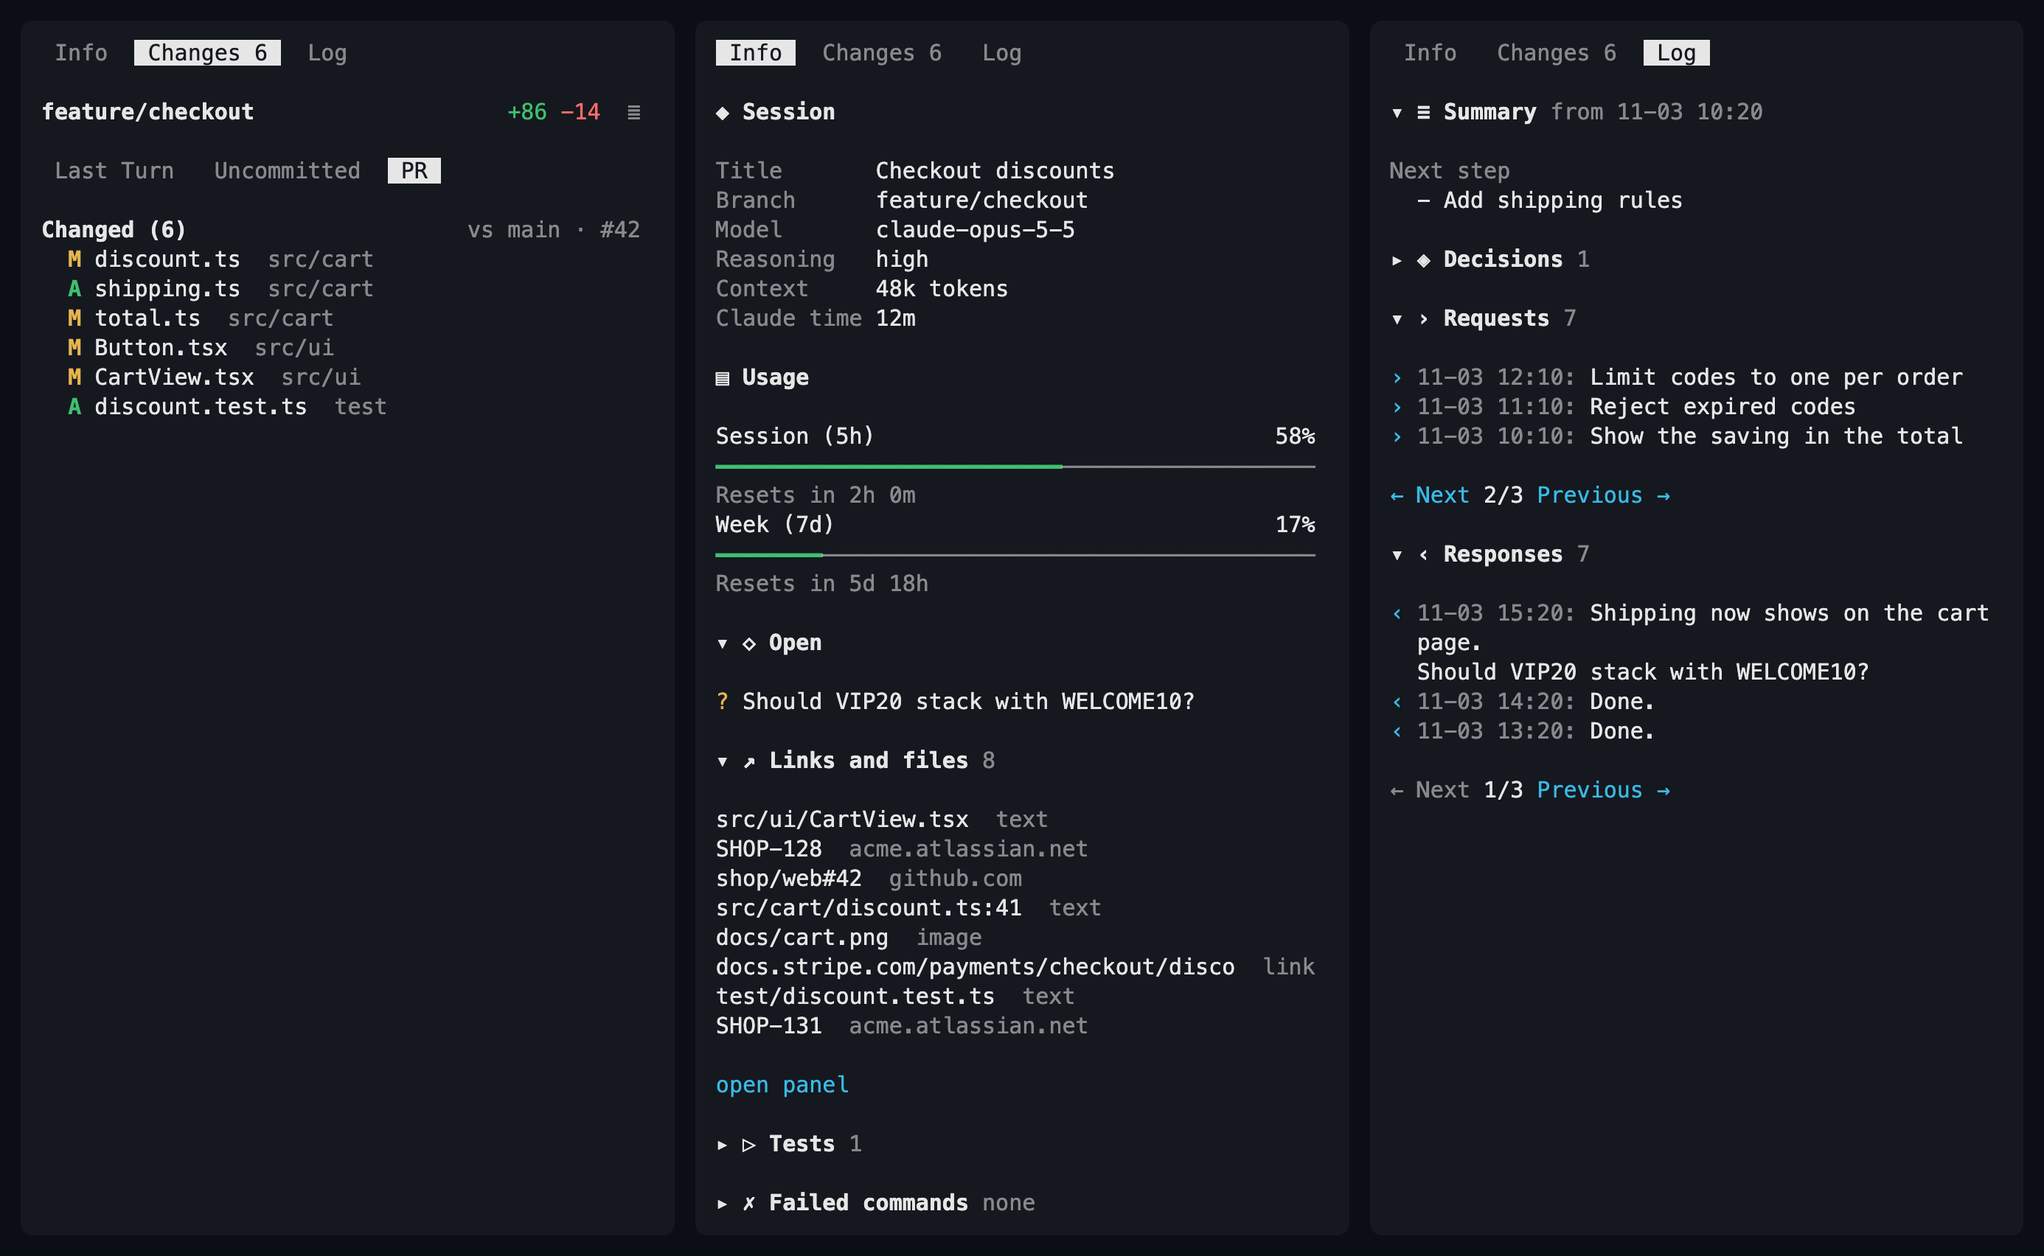
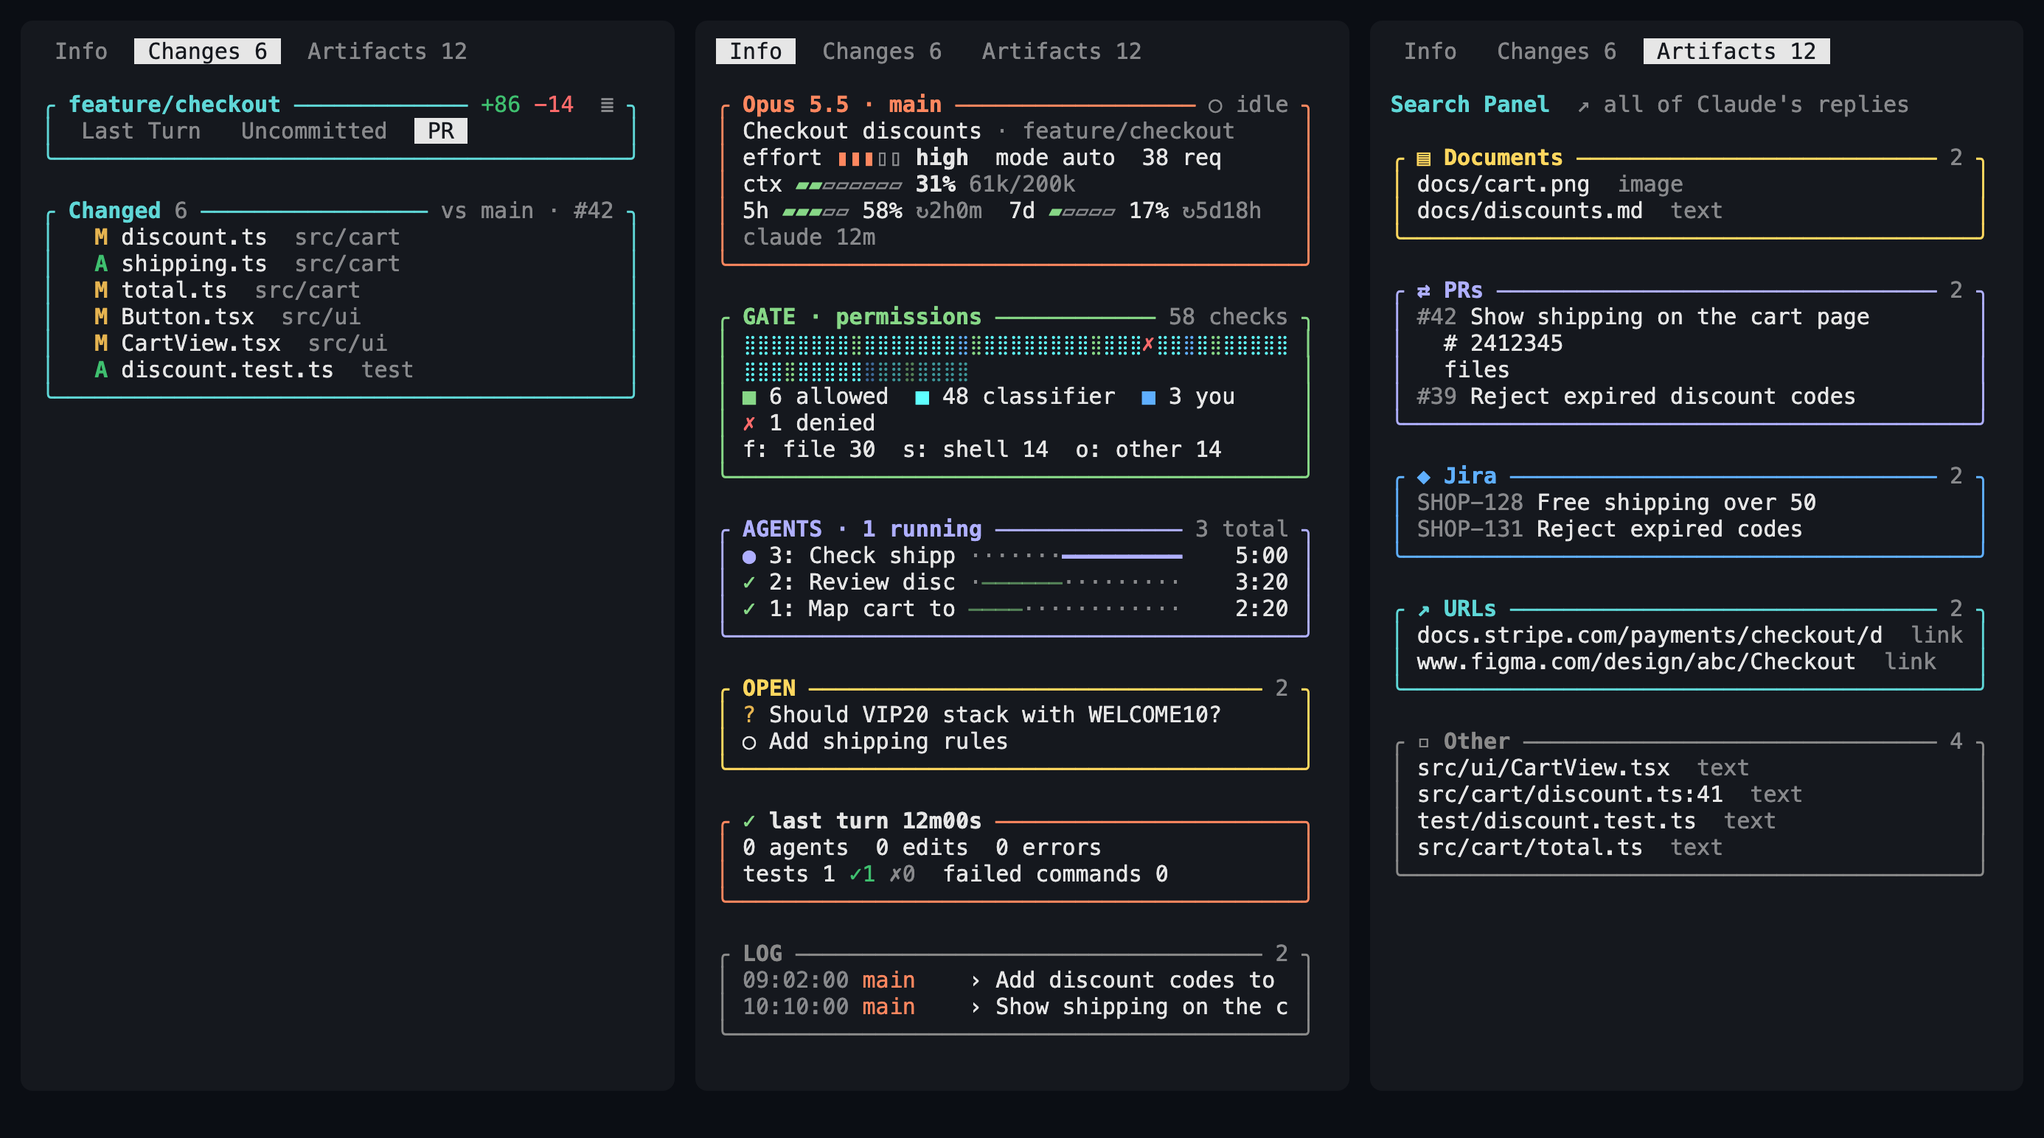
docs: describe the dashboard, Artifacts and Search Panel, with new pictures

diff --git a/cc-sidecar/README.md b/cc-sidecar/README.md
@@ -5,14 +5,17 @@ Code, and closes it when Claude exits or its pane closes. It stands in for
 Claude Code's own diff panel; turn that one off with `"diffSidebarOpen": false`
 in `~/.claude.json`.
 
-![The Changes tab on a pull request, Info with links and files from Claude's replies, and Log, with made-up data](../docs/cc-sidecar.png)
+![The Changes tab on a pull request, Info, and Artifacts with documents, PRs, Jira issues and links from Claude's replies, with made-up data](../docs/cc-sidecar.png)
 
-The pane has three tabs, redrawn every 2 seconds.
+The pane has three tabs, redrawn every 2 seconds, and every second while a
+clock runs. Their look follows [Flightdeck](https://github.com/scasella/claude-flightdeck),
+a Claude Code mod: each section is a box in its own colour, gauges are cells, and
+an empty section takes no room. Below 36 columns, boxes become plain headings.
 
 ## Changes
 
-The top row shows the branch, its added and removed lines, and `≣`, which
-switches between a list and a folder tree. Below it are up to three scopes:
+The header box shows the branch, its added and removed lines, and `≣`, which
+switches between a list and a folder tree. Inside it are up to three scopes:
 
 | Scope | What it lists | Where it comes from |
 | --- | --- | --- |
@@ -41,49 +44,83 @@ holds. The choice is saved in `settings.json`, for each repository.
 Last Turn only knows Claude's Edit and Write tools, so files changed through
 Bash (`sed`, a formatter) don't show up there. Outside a git repository it's the
 only scope. The transcript format is Claude Code's own and undocumented, so an
-update to it can empty this scope and the Info and Log tabs.
+update to it can empty this scope and the Info and Artifacts tabs.
 
 ## Info
 
-Opens first. Open, Links and files, Tests and Failed commands fold; see
-[Folding](#folding).
+Opens first. Every box folds; see [Folding](#folding).
+
+| Box | What's in it |
+| --- | --- |
+| **Model · main** | Running or idle; the session's title and branch; reasoning effort, permission mode and how many requests Claude made; context against the model's window, and ⟲ with how often it was compacted; your 5-hour and 7-day limits with the time to each reset (↻), and Claude's working time |
+| **ADVISOR** | The advisor tool's consults on a timeline from your first prompt, how long ago the last one was and how long it took. Shown only once Claude consults it |
+| **GATE** | A dotted cell (`⣿`) for each latest permission check: green allowed by a rule or the mode, cyan by the auto-mode classifier, blue by you, red ✗ denied, dim made inside a subagent. Then the totals, and the checks by family: click `file`, `shell` or `other`, or press `f`, `s` or `o`, to list that family's last 5 checks |
+| **AGENTS** | The latest 8 subagents as lanes on one time axis, newest first, each with its time. A running one has a pulsing lavender ● and a ticking clock. Click a lane for its type, context, steps, last 3 tool calls and the start of its answer |
+| **OPEN** | Questions and plans waiting for your answer, questions at the end of Claude's last reply, and unfinished tasks |
+| **Receipt** | The running turn, or the last one: how long, the agents it started, and its edits and errors. Then tests and failed commands: click either for the latest 8. A run counts as a test by its command: `pytest`, `npm test`, `go test`, a script named test or spec |
+| **LOG** | Your prompts, agents starting and finishing, edits, failed commands, denied permission checks and advisor consults, each with its time. It fills the rows under the other boxes, or, when they fill the screen, a screen of its own below them |
+
+The context window and the limits come from the status line step in the
+[main README](../README.md#install); without them they're left out. Commands and
+paths in GATE, the lanes, the receipt and the log have values that look like
+credentials masked as `•••`: the value of a `TOKEN=`, `--password` or
+`Authorization:`, a bearer token, and long key-like strings.
+
+## Artifacts
+
+What all of Claude's replies in this session mention, newest first. A reply is
+Claude's final message after one of your prompts; what it wrote between tool
+calls doesn't count. **Search Panel**, pinned at the top, opens the
+[Search Panel](#search-panel). The tab's title shows how many rows there are, counting a PR once.
 
 | Section | What's in it |
 | --- | --- |
-| **Session** | Title, branch, model, reasoning level, context size, how often it was compacted, and Claude's working time |
-| **Usage** | Your 5-hour and 7-day limits and when they reset. Needs the status line step in the [main README](../README.md#install); hidden without it |
-| **Open** | Questions and plans waiting for your answer, questions at the end of Claude's last reply, and unfinished tasks |
-| **Links and files** | The files, images and links in Claude's last 3 final messages, as [Rex View](#rex-view) lists them. Click one to view it or open it in the browser, as Enter does there; **open panel** at the end opens Rex View's float |
-| **Tests** | The latest test runs and whether they passed. A run counts as a test by its command: `pytest`, `npm test`, `go test`, a script named test or spec |
-| **Failed commands** | The latest failures, with their first error line |
+| **Documents** | Files that exist with `md`, `txt`, `pdf`, `html`, `csv`, `rtf`, `doc`, `docx`, `xlsx`, `pptx` or `svg`, and images |
+| **PRs** | Links to a GitHub pull request (`/pull/12`) or a GitLab merge request (`/merge_requests/12`) |
+| **Jira** | Links to a Jira issue (`/browse/KEY-12`) |
+| **URLs** | Other `http` and `https` links |
+| **Other** | Other files that exist, such as source code, with an optional `:line` |
 
-## Log
+[Link patterns](#link-patterns) turn text such as `SHOP-12` or `#12` into PRs
+and Jira links. A category with nothing in it isn't shown, and each one folds.
+Click a row to open it as Enter does in the Search Panel: a file or image in the
+viewer, in a float, and a link in your browser. Something mentioned again is
+listed once, where it was mentioned last. At most 1,000 rows are listed.
 
-What was said and decided. Summary has its local date and time in its title.
-The other three sections start each entry with theirs, run newest first and show
-3 entries a page. All four fold.
+PRs are listed one row a PR, named by its number, in grey, and its title. A PR mentioned through more
+than one link, such as its page, a comment and its files, has those links under
+it: a comment as `# 123`, and other links by their last part, such as `files` or
+`commit abc1234`. Click the PR to open it, or a link under it to open that.
+Titles come from GitHub through [gh](https://cli.github.com), up to 4 at a time
+while the tab is open, and each is looked up once; without `gh`, or for a GitLab
+merge request, a PR shows its repository and number. The Search Panel lists each
+link, such as `acme/shop#42 # 123`, without titles.
 
-| Section | What's in it |
-| --- | --- |
-| **Summary** | The current state, next step and pending work from the latest compaction |
-| **Decisions** | Your answers, with any notes; plans you approved or rejected; actions you rejected, with what you said |
-| **Requests** | Your prompts, including slash commands and messages sent while Claude worked. Up to 6 rows each |
-| **Responses** | Claude's final text in each turn, which changes while the turn runs. Up to 8 rows each, read from the first 2,000 characters |
+Jira issues show their key, in grey, and their title, as a reply wrote it next
+to the key: a Markdown link's text, words in brackets after it (`SHOP-12 (Cart
+rounding)`), after a colon or dash, or in the next table cell. A later mention
+without one keeps an earlier title. Nothing is looked up, so an issue no reply
+named shows its key and site.
 
-A section with more than one page ends with `← Next 2/10 Previous →`. Previous
-goes to earlier entries and Next to later ones. Click them, or highlight the
-section and press `]` or `[`. The page isn't saved.
+git and gh run in the background, so the pane keeps taking keys and clicks while
+they do. A scope you switch to shows "Loading…" until git is done, and a PR's
+title appears when gh returns it.
 
-## Rex View
+Each reply is read once, as it comes in. All of them are read again when Claude
+changes directory or you change the link patterns.
 
-Press `Cmd+Ctrl+Alt+Shift+O`, or run **Rex View: Open from Claude's Replies**
-from the palette, to list what Claude's last 10 replies mention, newest first. A reply is
-Claude's final message after one of your prompts, as in the Log tab's
-Responses; what it wrote between tool calls doesn't count. It
-reads the focused pane's Claude, or else the first Claude in the tab, and opens
-over the tab in a float:
+## Search Panel
 
-![Rex View's float with files, Jira keys, a pull request and a link, with made-up data](../docs/rex-view.png)
+Press `Cmd+Ctrl+Alt+Shift+O`, run **Rex View: Search Panel** from the palette,
+or click **Search Panel** on the Artifacts tab, to list what all of Claude's
+replies mention, as on the [Artifacts](#artifacts) tab: by category, newest
+first, with each category's icon and colour, and its name after each row. The
+float is styled as the sidecar's boxes: a teal frame labelled with the count,
+the keys at the top, an orange pointer and gold matches. The key reads the focused pane's
+Claude, or else the first Claude in the tab. The list opens over the tab in a
+float:
+
+![The Search Panel's float with files, Jira keys, a pull request and a link, with made-up data](../docs/rex-view.png)
 
 | Row | Enter | `Ctrl+E` |
 | --- | --- | --- |
@@ -133,7 +170,7 @@ basis that the match is added to:
 }
 ```
 
-For a Claude in a directory, Rex View takes that directory's patterns, then its
+For a Claude in a directory, cc-sidecar takes that directory's patterns, then its
 parent's, and so on up to `/`, and uses them all. When two set the same
 pattern, the nearer one wins. With the example, `PROJ-12` opens
 `https://acme-mobile.atlassian.net/browse/PROJ-12` under `acme/mobile`, and
@@ -153,44 +190,38 @@ not `repo#12`. A reply is matched with a line break before and after it, so
 `%W` matches at its start and end too. The `#` rule in the example is locked to
 `acme`, where a bare `#12` means that repository's pull request.
 
-### Replies read
-
-Rex View's float reads the last 10 replies, and the Info tab's Links and files
-section the last 3. To change them, set `"view_replies"` and `"info_replies"`
-in `settings.json`, such as `{"view_replies": 20, "info_replies": 5}`. The float
-reads only the last 16 MB of the transcript, and the section the last 10
-replies.
-
-## Where Info and Log get their data
+## Where Info and Artifacts get their data
 
 Both tabs read Claude Code's own files and need no Claude Code setting, hook or
 prompt: Claude's session file (`~/.claude/sessions/<pid>.json`, or under
 `$CLAUDE_CONFIG_DIR`) names its transcript
 (`projects/<project>/<session>.jsonl`), which is read from where the last read
-stopped. Nothing is sent anywhere, and no AI is involved, so only what Claude
+stopped. Subagents are read from the `subagents` folder beside it, and the
+status line's saved input from `state/statusline/<session>.json`. Nothing is sent anywhere, and no AI is involved, so only what Claude
 Code records as structured data shows: a decision made in plain conversation
 doesn't.
 
 ## Folding
 
-Click a section's heading to fold or unfold it, or highlight it with `n` and `p`
-and press `Enter`. The choice is saved as `{"folded": {"Tests": true}}` in
+Click a box's top line to fold or unfold it, or highlight it with `n` and `p`
+and press `Enter`; a folded box is one line. The choice is saved as `{"folded": {"Gate": true}}` in
 `settings.json`, and applies to all sidecar panes within a couple of seconds.
 
 ## Keys and mouse
 
-Click a tab, a scope, `≣`, a file, a section heading or a pager's side. Keys need
+Click a tab, a scope, `≣`, a file, a box's top line, a gate family, an agent
+lane, tests or failed commands, an Artifacts row or Search Panel. Keys need
 the pane focused:
 
 | Key | What it does |
 | --- | --- |
 | `1` `2` `3`, `Tab`, `←` `→` | Switch tabs |
-| `s` | Next scope |
+| `s` | Next scope on Changes |
+| `f` `s` `o` | On Info, list the last file, shell or other permission checks |
 | `t` | List or tree; the choice is saved in `settings.json` |
-| `j` `k`, `↑` `↓` | Move the selection on Changes, through folders too in the tree; scroll on Info and Log |
-| `n` `p` | Highlight the next or previous section on Info and Log |
-| `[` `]` | Next and Previous page of the highlighted section on Log |
-| `Enter` | On Changes, open the selected file's diff, or the first file's, or fold the selected folder. On Info and Log, fold the highlighted section |
+| `j` `k`, `↑` `↓` | Move the selection on Changes, through folders too in the tree; scroll on Info and Artifacts |
+| `n` `p` | Highlight the next or previous section on Info and Artifacts |
+| `Enter` | On Changes, open the selected file's diff, or the first file's, or fold the selected folder. On Info and Artifacts, fold the highlighted section |
 | `Space` `b`, `Page Down` `Page Up` | Scroll a page |
 | `g` | Back to the top |
 
@@ -222,7 +253,7 @@ pkill -f 'cc-sidecar/watcher\.lua'; rex config reload
 |---|---|
 | Show Sidecar Pane | Opens the pane beside the focused Claude, or another Claude in the tab that has none |
 | Disable / Enable Sidecar Pane Auto-Show | Whether a pane opens by itself when Claude starts. On by default |
-| Rex View: Open from Claude's Replies | The [Rex View](#rex-view) list; also `Cmd+Ctrl+Alt+Shift+O` |
+| Rex View: Search Panel | The [Search Panel](#search-panel); also `Cmd+Ctrl+Alt+Shift+O` |
 | Rex View: Set Editor | The command that [edits files](#editor) |
 | Rex View: Edit Link Patterns | Adds, edits and deletes [link patterns](#link-patterns) |
 
@@ -238,7 +269,7 @@ actions are `cc_sidecar_view`, `cc_sidecar_view_editor` and
 - Claude is recognised by its program name, `claude`, in the foreground or as
   the parent of the foreground command. A pane started as `rex split -- claude`
   is found by a second look a second after its shell starts.
-- The pane takes 20% of the width, and focus stays on the Claude pane.
+- The pane takes 30% of the width, and focus stays on the Claude pane.
 - The pane follows Claude's directory: after `/cd`, the scopes and the pane's
   label switch to the new directory's repository within
   a couple of seconds. They cover the whole repository, not only the folder
@@ -262,7 +293,8 @@ actions are `cc_sidecar_view`, `cc_sidecar_view_editor` and
   the tabs.
 - `diff-view` draws one diff in the floating pane.
 - `mentions.lua` finds the files, images and links in Claude's replies;
-  `view-collect.lua` writes them as Rex View's list, and `view-picker` shows it.
+  `view-collect.lua` writes them as the Search Panel's list, and `view-picker`
+  shows it.
 - `view-settings` asks for the editor and edits the link patterns.
 
 ## Tests

diff --git a/README.md b/README.md
@@ -7,10 +7,10 @@ conversations back after a restart, and let Claude show you files.
 
 | | Name | What you get | Runs as |
 | --- | --- | --- | --- |
-| Extension | [cc-sidecar](#cc-sidecar) | A side pane with what each Claude changed, by turn, uncommitted, branch or pull request, plus its activity, open questions and decisions; Rex View opens the files, images and links in Claude's replies | Pane beside Claude |
+| Extension | [cc-sidecar](#cc-sidecar) | A side pane with what each Claude changed, by turn, uncommitted, branch or pull request, plus a dashboard of its context, limits, permission checks, subagents and a session log, and the documents, PRs, Jira issues, links and files Claude's replies mention | Pane beside Claude |
 | Extension | [cc-crab-pond](#cc-crab-pond) | Claudes, subagents and background jobs as animated crabs | Strip along the tab's bottom |
 | Extension | [cc-resume](#cc-resume) | Claude Code conversations resumed after the Rex server restarts | Background watcher |
-| Skill | [rex-view](#rex-view) | Claude shows images, Markdown and source code in a floating pane | Plugin, version 0.5.0 |
+| Skill | [rex-view](#rex-view) | Claude shows images, Markdown and source code in a floating pane | Plugin, version 0.5.1 |
 
 **Contents:** [Extensions](#extensions) · [Skills](#skills) ·
 [Requirements](#requirements) · [Install](#install) · [Update](#update) ·
@@ -24,21 +24,23 @@ Rex loads these from `init.lua`. Each one's README has the details.
 ### cc-sidecar
 
 Answers "what did this Claude change, and what's still waiting on me?" A pane on
-the right, 20% of the tab, opens and closes with Claude and replaces Claude
+the right, 30% of the tab, opens and closes with Claude and replaces Claude
 Code's own diff panel.
 
-![cc-sidecar's Changes tab on a pull request, Info with links and files from Claude's replies, and Log, with made-up data](docs/cc-sidecar.png)
+![cc-sidecar's Changes tab on a pull request, Info, and Artifacts with documents, PRs, Jira issues and links from Claude's replies, with made-up data](docs/cc-sidecar.png)
 
 **Changes** lists changed files for the last turn, the uncommitted work, or the
 branch or its open pull request, as a list or a tree; click one to read its diff in a floating pane.
-**Info** lists the session's facts, usage limits, open questions, test runs and
-failed commands, in sections you can fold. **Log** shows the last summary, then
-your decisions, requests and Claude's responses, dated and newest first.
-**Rex View**, on `Cmd+Ctrl+Alt+Shift+O`, lists the files, images and links in
-Claude's last replies, to view, edit or open in the browser, with your own
-patterns for Jira keys or PR numbers.
+**Info** is a dashboard in the style of [Flightdeck](https://github.com/scasella/claude-flightdeck):
+the model, context and limits; every permission check; subagents as lanes
+on a time axis; open questions; what the last turn did; and a session log, in boxes
+you can fold. **Artifacts** lists what all of
+Claude's replies mention, as Documents, PRs, Jira, URLs and Other; click one to
+view it or open it in the browser. Your own patterns turn Jira keys or PR
+numbers into links. The **Search Panel**, on `Cmd+Ctrl+Alt+Shift+O` or at the
+top of Artifacts, lists the same in a float, to filter, view, edit or open.
 
-![Rex View's float listing files, Jira keys, a pull request and links from Claude's replies, with made-up data](docs/rex-view.png)
+![The Search Panel's float listing files, Jira keys, a pull request and links from Claude's replies, with made-up data](docs/rex-view.png)
 
 [Tabs, keys and limits →](cc-sidecar/README.md)
 
@@ -82,7 +84,7 @@ over Claude's tab, and `q` closes it. [Details →](plugins/rex-view/README.md)
 | cc-sidecar and rex-view colours, optional | [`bat`](https://github.com/sharkdp/bat) (`brew install bat`) |
 | cc-sidecar's highlighted diffs, optional | [`delta`](https://github.com/dandavison/delta) (`brew install git-delta`) |
 | cc-sidecar's Usage section, optional | The status line step in [Install](#install), with `jq` |
-| cc-sidecar's Rex View list, optional | [`fzf`](https://github.com/junegunn/fzf) (`brew install fzf`), and `jq` for its settings |
+| cc-sidecar's Search Panel, optional | [`fzf`](https://github.com/junegunn/fzf) (`brew install fzf`), and `jq` for its settings |
 | cc-sidecar's PR scope, optional | [`gh`](https://cli.github.com), signed in (`brew install gh`, `gh auth login`) |
 | rex-view formatted Markdown, optional | [`glow`](https://github.com/charmbracelet/glow) (`brew install glow`) |
 
